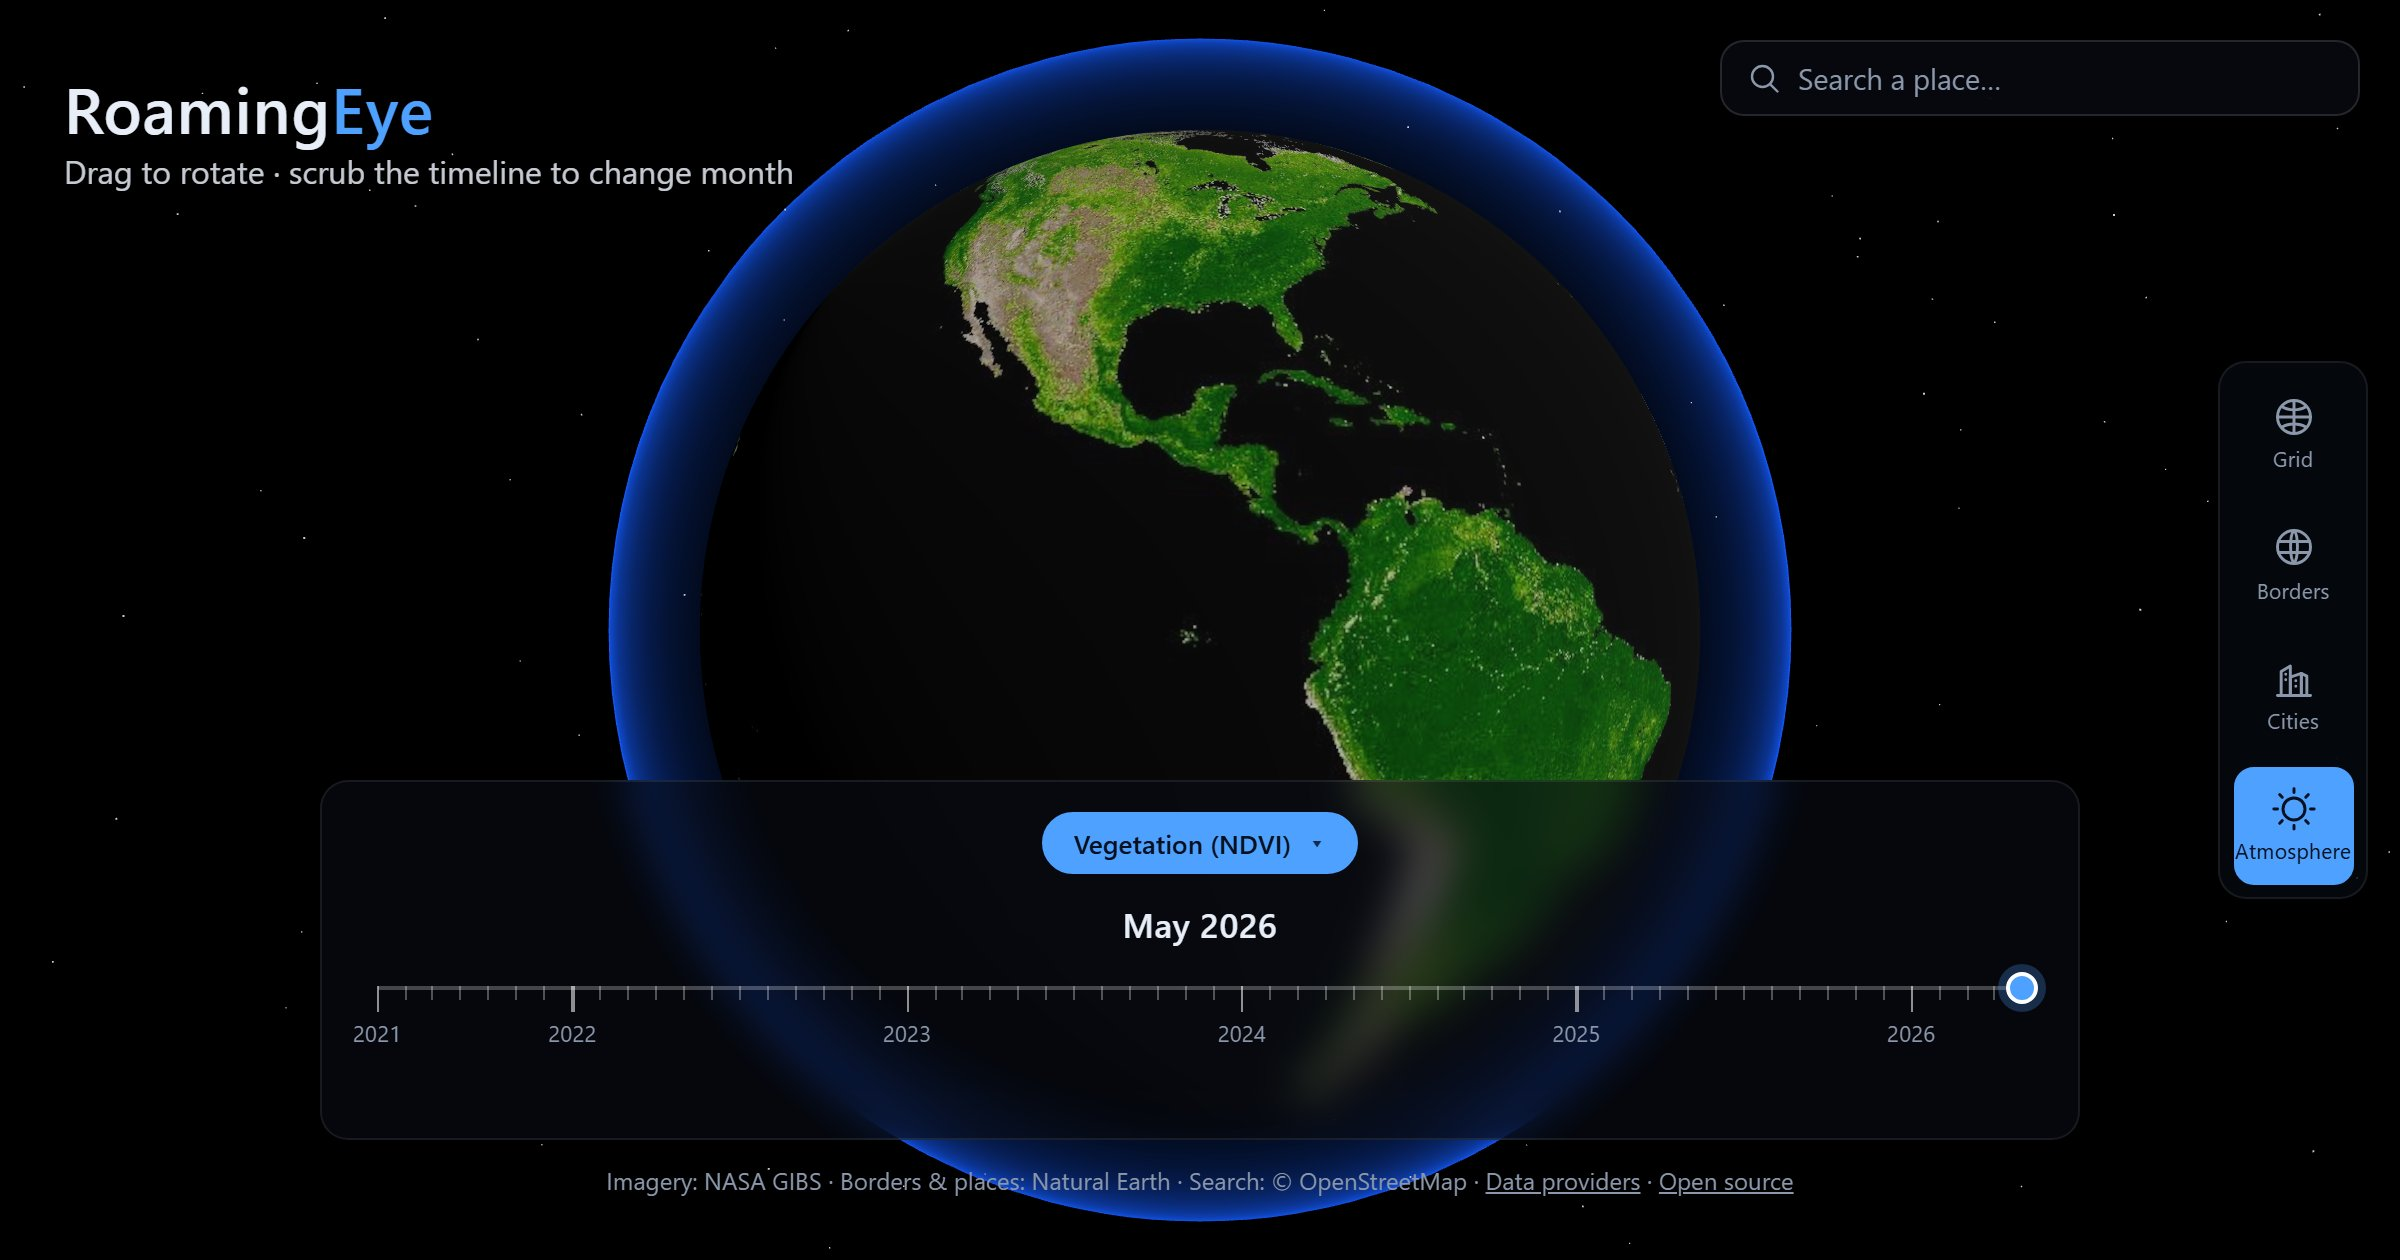
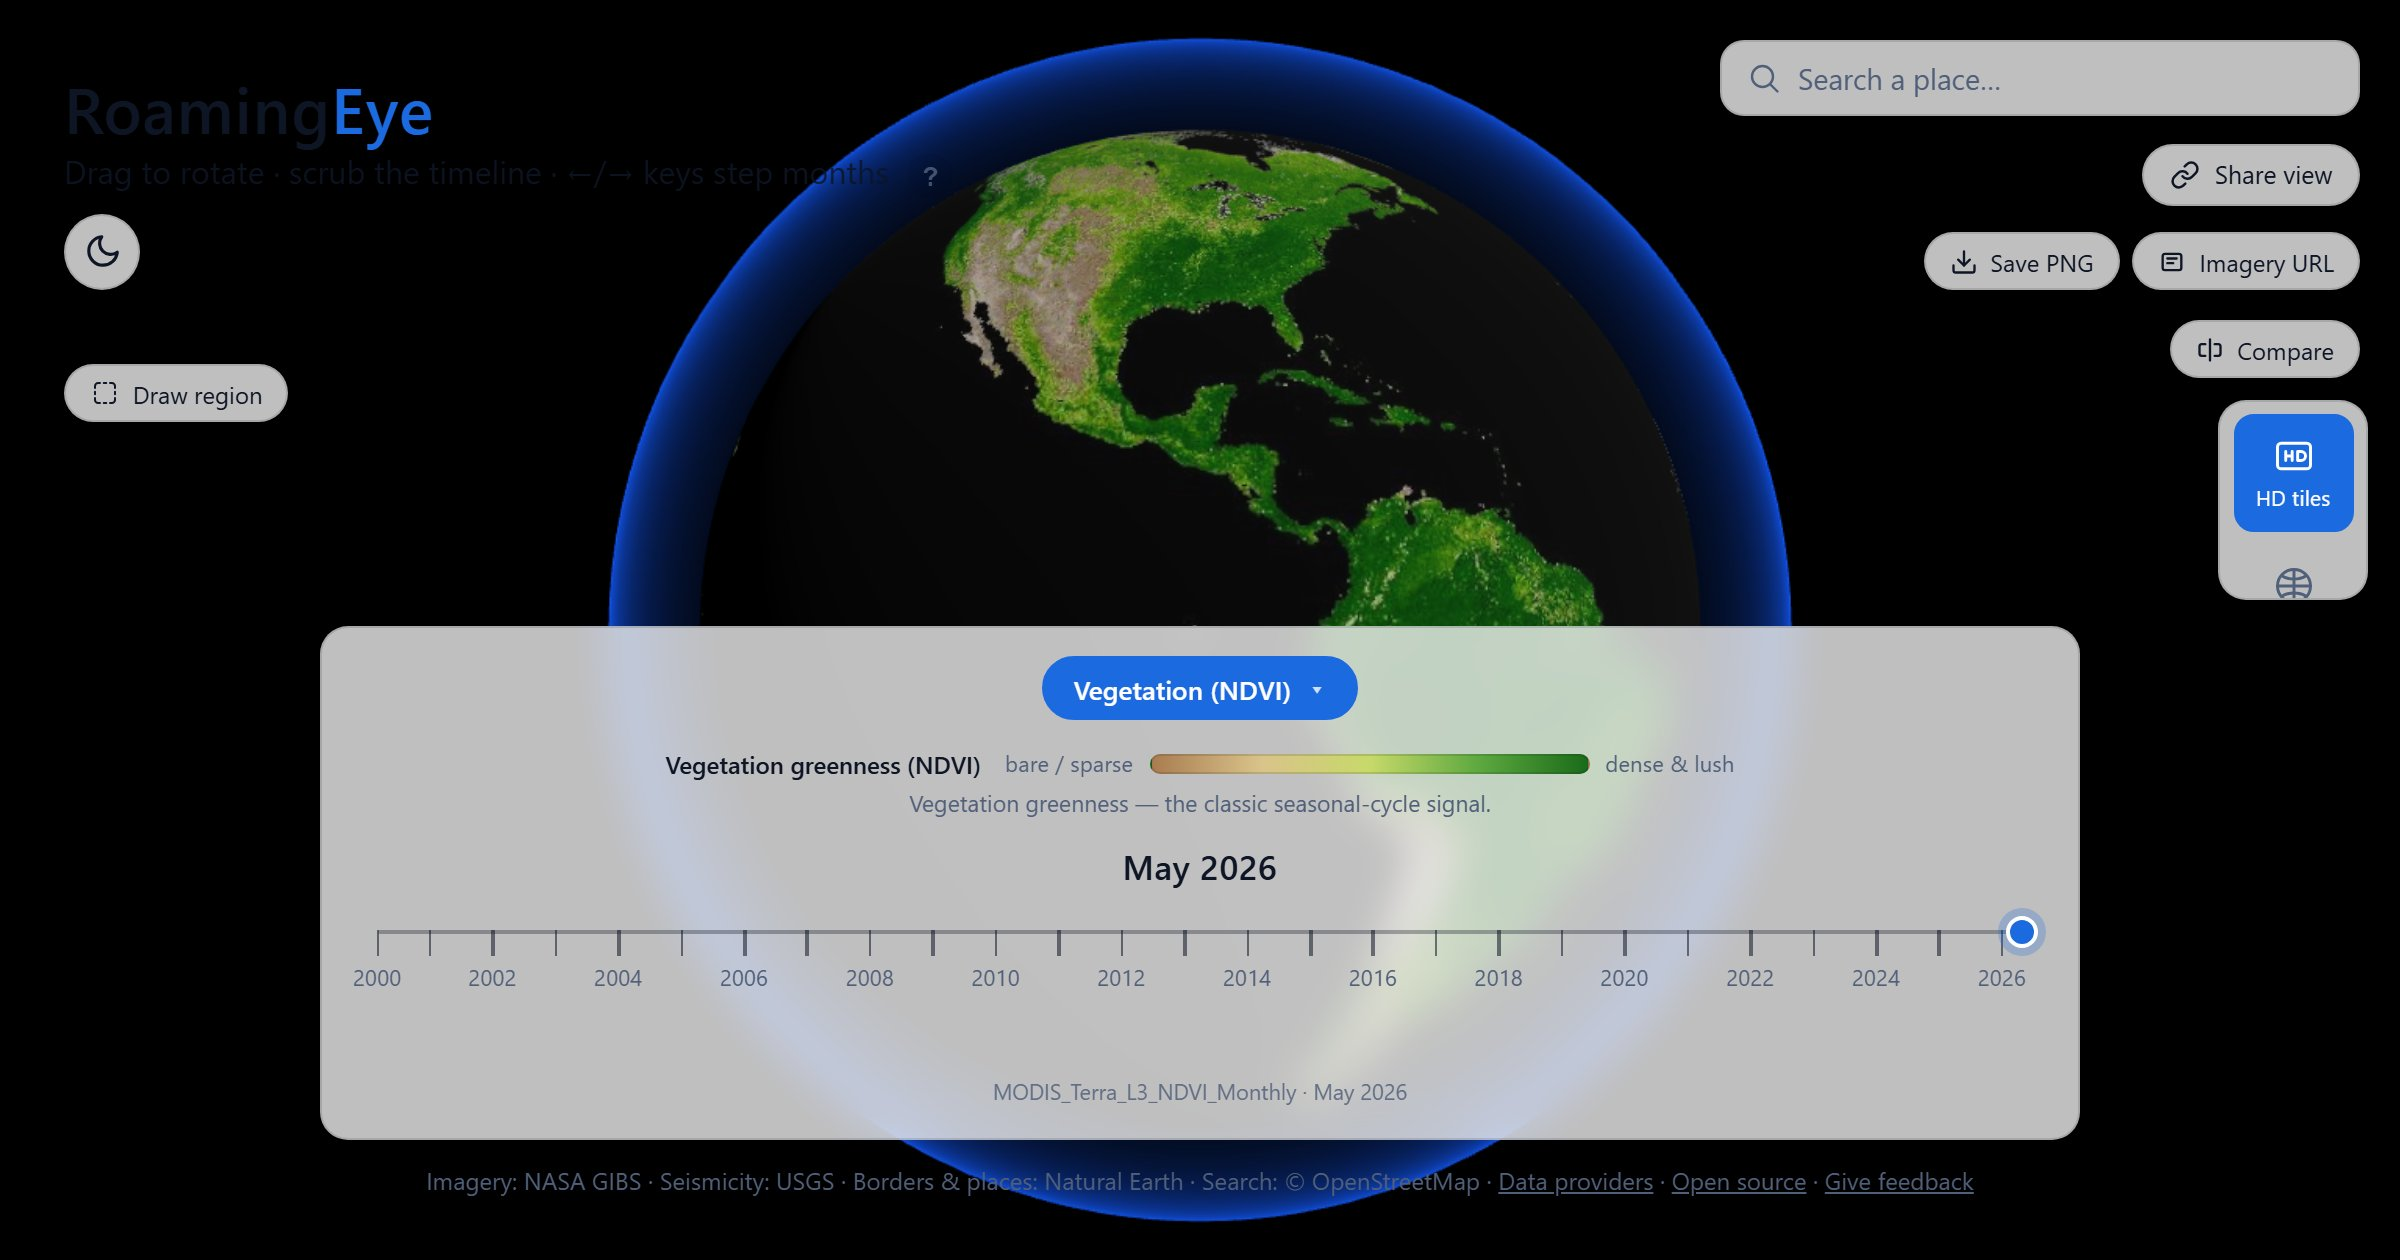
Launch v1.0.0: version bump, changelog, release notes, assets
- package.json + CITATION.cff -> 1.0.0 (date-released 2026-07-08)
- CHANGELOG: [Unreleased] promoted to [1.0.0] with the three same-day
  development rounds (flagship + 9 features, 16 robustness items)
- docs/launch/release-notes-v1.0.0.md ("the open Earth-observation
  globe") supersedes the stale v0.2.0 draft
- docs/launch/maintainer-comment-template.md (checklist item)
- Regenerated docs/demo.gif and public/social-card.jpg at v1.0.0
  quality via the capture scripts
- LAUNCH_CHECKLIST: release, GIF, and template items ticked

diff --git a/docs/launch/release-notes-v1.0.0.md b/docs/launch/release-notes-v1.0.0.md
@@ -1,0 +1,79 @@
+# v1.0.0 — the open Earth-observation globe
+
+RoamingEye is a browser-based 3D Earth for exploring **decades of satellite
+observations** — and as of 1.0, for analyzing them. Everything below runs at
+[zkwizard.github.io/RoamingEye](https://zkwizard.github.io/RoamingEye/) —
+no account, no install, no backend, 100% open data.
+
+![Two years of monthly NDVI composites scrubbing on the globe](https://raw.githubusercontent.com/zkWizard/RoamingEye/main/docs/demo.gif)
+
+## 🚩 Draw a region, chart its history
+
+The flagship. Arm **Draw region**, drag a box anywhere on the globe, and get a
+chart of that region's monthly mean across the layer's full published record —
+26 years for the MODIS layers, 46 for MERRA-2 — with Values/Anomaly views and
+a CSV whose provenance headers record the exact bounds, method, and caveats.
+Point probes work the same way: click anywhere, chart everything.
+
+Values are reconstructed by inverting each layer's colormap on the streamed
+imagery — **approximate by design, labeled approximate everywhere** — ideal
+for trend-spotting and teaching before a real data pull.
+
+## 🗺️ Eleven layers, one scrubber
+
+Vegetation (NDVI/EVI), land & sea surface temperature, 2 m air temperature,
+precipitation, soil moisture, snow cover, aerosols, terrain relief — and new
+in this release, **annual IGBP land cover** (MODIS MCD12Q1, 2001→2024), the
+catalog's first categorical layer, with all 17 classes named in the legend and
+the scrubber stepping by year.
+
+**HD tile streaming** (RFC-001) re-drapes the visible globe with WMTS tiles at
+the level your zoom justifies — a screen-space-error quadtree with parent-tile
+fallback and a GPU memory budget, all against NASA GIBS's public endpoint.
+
+## 🌍 A globe that identifies what you see
+
+Hover anything: coordinates and country everywhere, city names on the Cities
+overlay, name · type · last-eruption on volcano markers. The geology trio
+(plate boundaries, Holocene volcanoes, live USGS seismicity) carries in-app
+color keys, and the 30 biggest cities label themselves at close zoom.
+
+## 🔬 Built for reproducible observation
+
+Every view is a citable URL — layer, month, camera, an open probe, even a
+pinned comparison round-trip through the address bar. A/B compare any two
+months with a draggable divider. Export PNG or the exact GIBS imagery URL.
+`CITATION.cff` ships in the repo.
+
+## 💪 Hardened for the field
+
+1.0 closes three same-day robustness rounds (24 PRs, all tested — 222 unit
+tests, 23 end-to-end):
+
+- Friendly fallback when WebGL is blocked; in-place recovery from GPU context
+  loss; a Retry affordance when imagery fails.
+- Rendering pauses in hidden tabs; resolution adapts on weak GPUs; the app
+  payload is 33 kB gzipped (three.js cached separately) with size budgets
+  enforced on every build.
+- Your working context (layer, month, overlays) survives across visits.
+- Focus-trapped modals, `prefers-reduced-motion` support, keyboard navigation
+  end-to-end, and a phone-friendly bottom-bar layout.
+
+## 🔭 The honest ceiling
+
+Open data tops out around **30 m/pixel** (Harmonized Landsat-Sentinel), which
+powers the high-res study patches. Global multi-decade monthly composites are
+1–2 km. That's the physics and the licensing of free data, stated plainly —
+what's remarkable is how much science fits above that floor.
+
+## 🙏 Data
+
+NASA GIBS (imagery, public domain) · USGS (seismicity) · Smithsonian GVP
+(volcanoes) · Natural Earth (borders, places) · Bird 2003 (plate boundaries) ·
+OpenStreetMap Nominatim (search, ODbL). Full details in
+[DATA_SOURCES.md](https://github.com/zkWizard/RoamingEye/blob/main/DATA_SOURCES.md).
+
+**Contribute:** [good first issues](https://github.com/zkWizard/RoamingEye/issues?q=is%3Aissue+is%3Aopen+label%3A%22good+first+issue%22)
+are seeded after every release · [roadmap](https://github.com/zkWizard/RoamingEye/blob/main/ROADMAP.md) ·
+[give feedback](https://github.com/zkWizard/RoamingEye/issues/new?template=feedback.yml)
+(three questions, two minutes).

diff --git a/CHANGELOG.md b/CHANGELOG.md
@@ -4,9 +4,56 @@ All notable changes to RoamingEye. The project is pre-1.0 and moving fast; this
 log captures milestones rather than every commit. Format loosely follows
 [Keep a Changelog](https://keepachangelog.com/).
 
-## [Unreleased]
+## [1.0.0] — 2026-07-08 · the launch release
+
+Three same-day development rounds turned the viewer into a hardened research
+instrument: an analysis flagship, nine capability features, and sixteen
+robustness fixes — every one landed with tests (unit 164 → 222, e2e 4 → 23).
 
 ### Added
+
+- **🚩 Drawn study regions with time-series charts** — arm "Draw region",
+  drag a box on the globe, and the probe panel charts that region's monthly
+  mean across the layer's full record, with the provenance-stamped CSV
+  recording the exact bounds. The step from viewer to analysis tool.
+- **Land cover (IGBP) layer** — MODIS MCD12Q1 annual classification
+  (2001→2024): the catalog's first annual-cadence layer (the scrubber steps
+  by year) and first categorical layer (the legend shows 18 named class
+  swatches in GIBS's exact colors).
+- **Hover identification** — city dots ("Tokyo · Japan") and volcano markers
+  ("Etna · Stratovolcano · last erupted 2025") name themselves under the
+  cursor; empty globe still reads coordinates + country.
+- **In-app color keys** — toggling Quakes or Volcanoes adds a swatch key
+  (depth classes / eruption recency) to the legend, sharing the exact
+  constants the overlays render with.
+- **City name labels at close zoom** (top 30 by population, far side culled),
+  **keyboard-shortcuts overlay** (press ?), **probe copy-CSV button**, and
+  **arrow-key navigation for the layer picker**.
+- **Session restore** — layer, month, and enabled overlays persist across
+  visits (a shared URL hash still wins).
+- **Mobile layout** — the toolbar becomes a bottom app bar at phone widths;
+  timeline year labels adapt to the track's real width.
+
+### Robustness & performance
+
+- **WebGL resilience** — a friendly explanation page when WebGL is
+  unavailable, and in-place recovery from GPU context loss.
+- **Failure visibility** — uncaught errors surface as a dismissible toast;
+  imagery failures offer a Retry (fixing a latent bug where a failed month
+  could never reload); search distinguishes "No matches" from "Search
+  unavailable".
+- **Resource discipline** — rendering pauses in hidden tabs; pixel ratio
+  adapts under sustained low FPS; three.js ships as its own long-cached
+  chunk (app payload 167 → 33 kB gzip) with size budgets enforced on every
+  build; recent geocode queries serve from an LRU instead of re-hitting
+  rate-limited Nominatim.
+- **Accessibility** — modals trap and restore focus; camera flights respect
+  prefers-reduced-motion.
+- **Guarded foundations** — the bundled data files are validated by the real
+  parsers in CI, and every feature e2e test doubles as an
+  uncaught-exception canary.
+
+### Earlier in this cycle
 
 - **Give-feedback funnel** — a three-question feedback issue form (what you
   tried / what got in the way / what would bring you back, with an optional

diff --git a/docs/launch/maintainer-comment-template.md b/docs/launch/maintainer-comment-template.md
@@ -1,0 +1,29 @@
+# Maintainer comment template
+
+The 3-sentence reply for recurring "what is this?" questions across channels
+(HN, Reddit, Discourse, Mastodon). Adapt the last line to the thread.
+
+---
+
+RoamingEye is an open-source 3D Earth that streams decades of NASA's monthly
+satellite composites (vegetation, temperature, snow, land cover, …) straight
+from GIBS into the browser — no backend, no account — and lets you chart any
+point or drawn region across the full record, with provenance-stamped CSV
+export. Open data honestly tops out around 30 m/pixel (Harmonized
+Landsat-Sentinel powers the high-res study patches; the global monthly layers
+are 1–2 km), and the app states that ceiling rather than hiding it. We're
+looking for contributors — the graphics side has meaty tile-streaming
+follow-ons (skirts, polar handling, 3D terrain) and there are groomed
+good-first-issues at
+https://github.com/zkWizard/RoamingEye/issues — happy to answer anything here.
+
+---
+
+Variants of the closing line:
+
+- **HN/graphics**: "The screen-space-error quadtree against a public WMTS
+  endpoint was the fun part — ask me anything about it."
+- **r/gis / practitioners**: "If you try it on a region you know, the
+  three-question feedback form directly shapes the roadmap."
+- **Educators**: "Every view is a citable URL — layer, month, camera, even an
+  open chart — which makes it easy to hand a class a specific observation."

diff --git a/LAUNCH_CHECKLIST.md b/LAUNCH_CHECKLIST.md
@@ -26,26 +26,25 @@ to the live site and the issue tracker.
       Social preview. Upload a 1280×640 raster (a globe screenshot with the
       banner tagline beats the default auto-card). This is what every HN/Reddit/
       social link unfurls to.
-- [ ] Cut a release with human-readable notes (the CHANGELOG has the material) —
-      "v1.0: the open Earth-observation globe" reads better than a commit list.
+- [x] Cut a release with human-readable notes — **v1.0.0 — the open
+      Earth-observation globe** (docs/launch/release-notes-v1.0.0.md).
 - [ ] Final smoke pass on the live site: cold load, mobile Safari + Android
       Chrome, scrub/zoom/probe/share-link round-trip. File anything broken as a
       `launch-blocker` label before announcing.
 
 ## 2. Launch assets
 
-- [ ] **Demo GIF/video ≤ 30 s** — the money shot is scrubbing years of NDVI, then
-      zooming into an HD study region. The README GIF works; a fresh capture at
-      current quality is worth an hour.
+- [x] **Demo GIF/video ≤ 30 s** — regenerated at v1.0.0 quality
+      (scripts/capture-demo.mjs → docs/demo.gif).
 - [ ] **Technical write-up** — working title: _"Streaming NASA's satellite archive
       to a 3D globe in the browser — with no backend."_ The RFC-001 story
       (screen-space-error quadtree, parent-tile fallback, GPU memory budget,
       all against a public WMTS endpoint) is genuinely interesting to graphics
       and infra people — exactly the contributors we want. Publish on a blog or
       dev.to; it doubles as the HN submission or first comment.
-- [ ] **Maintainer comment template** — a 3-sentence "what it is / what's open
-      data's ceiling / what help we want" reply, ready to paste when questions
-      repeat across channels.
+- [x] **Maintainer comment template** —
+      docs/launch/maintainer-comment-template.md, with per-channel closing
+      lines.
 
 ## 3. Channels (in order)
 